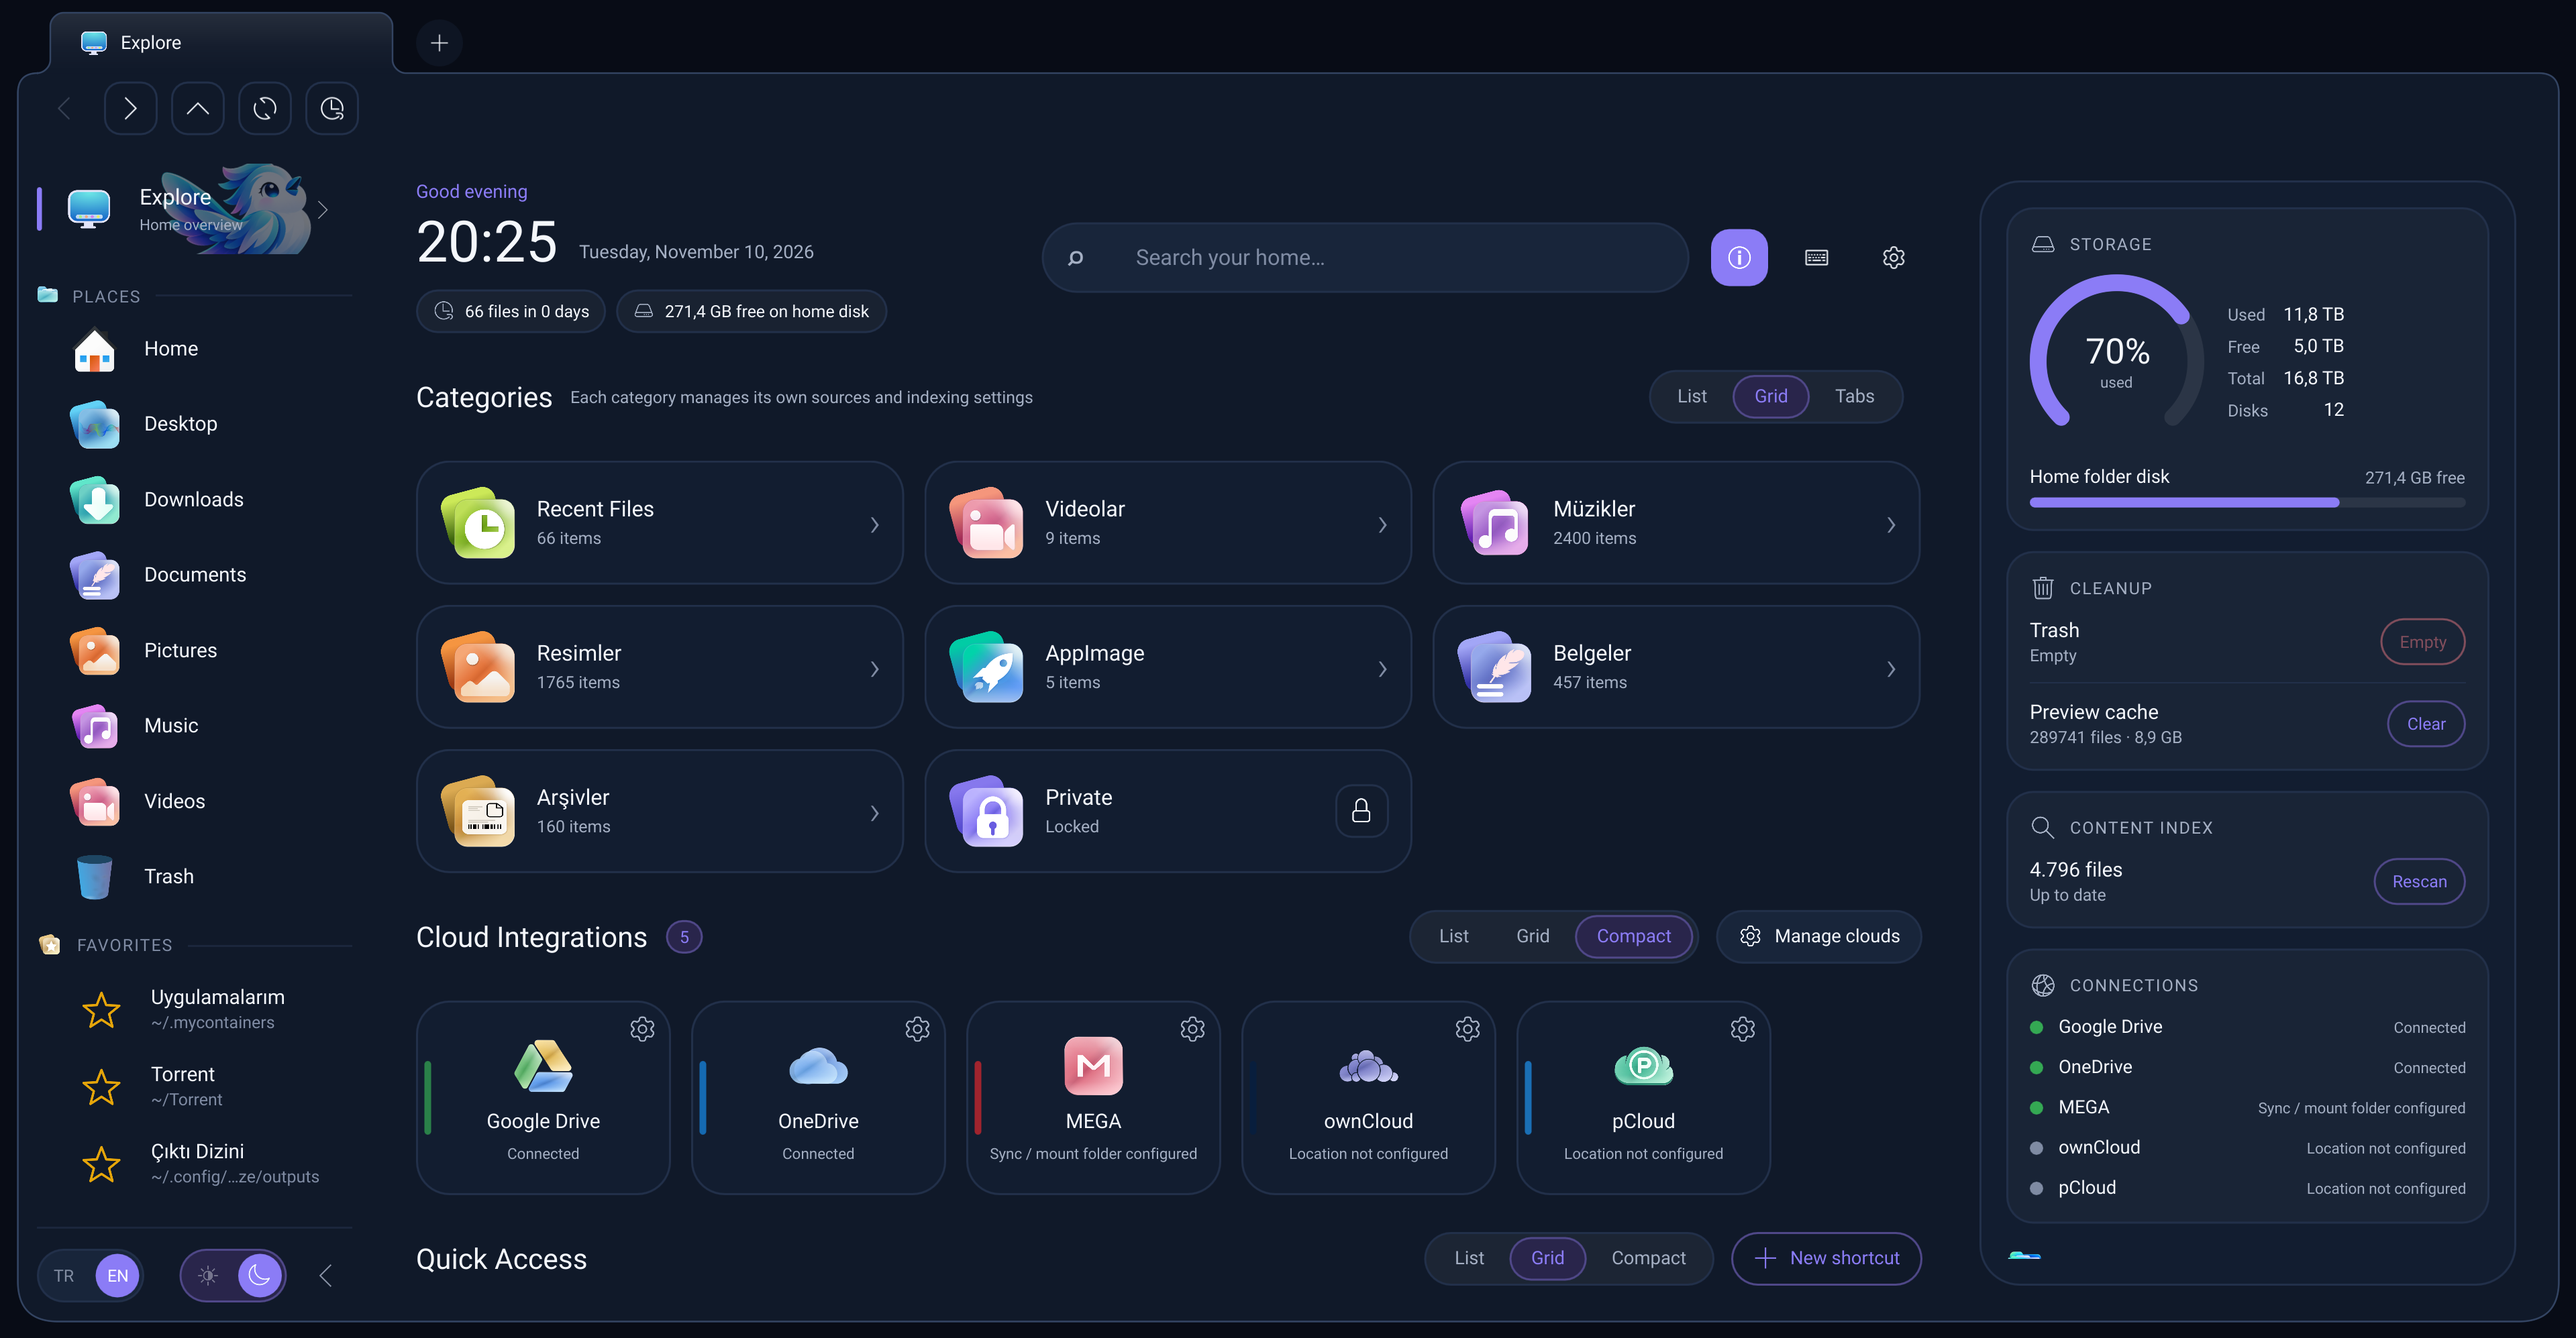
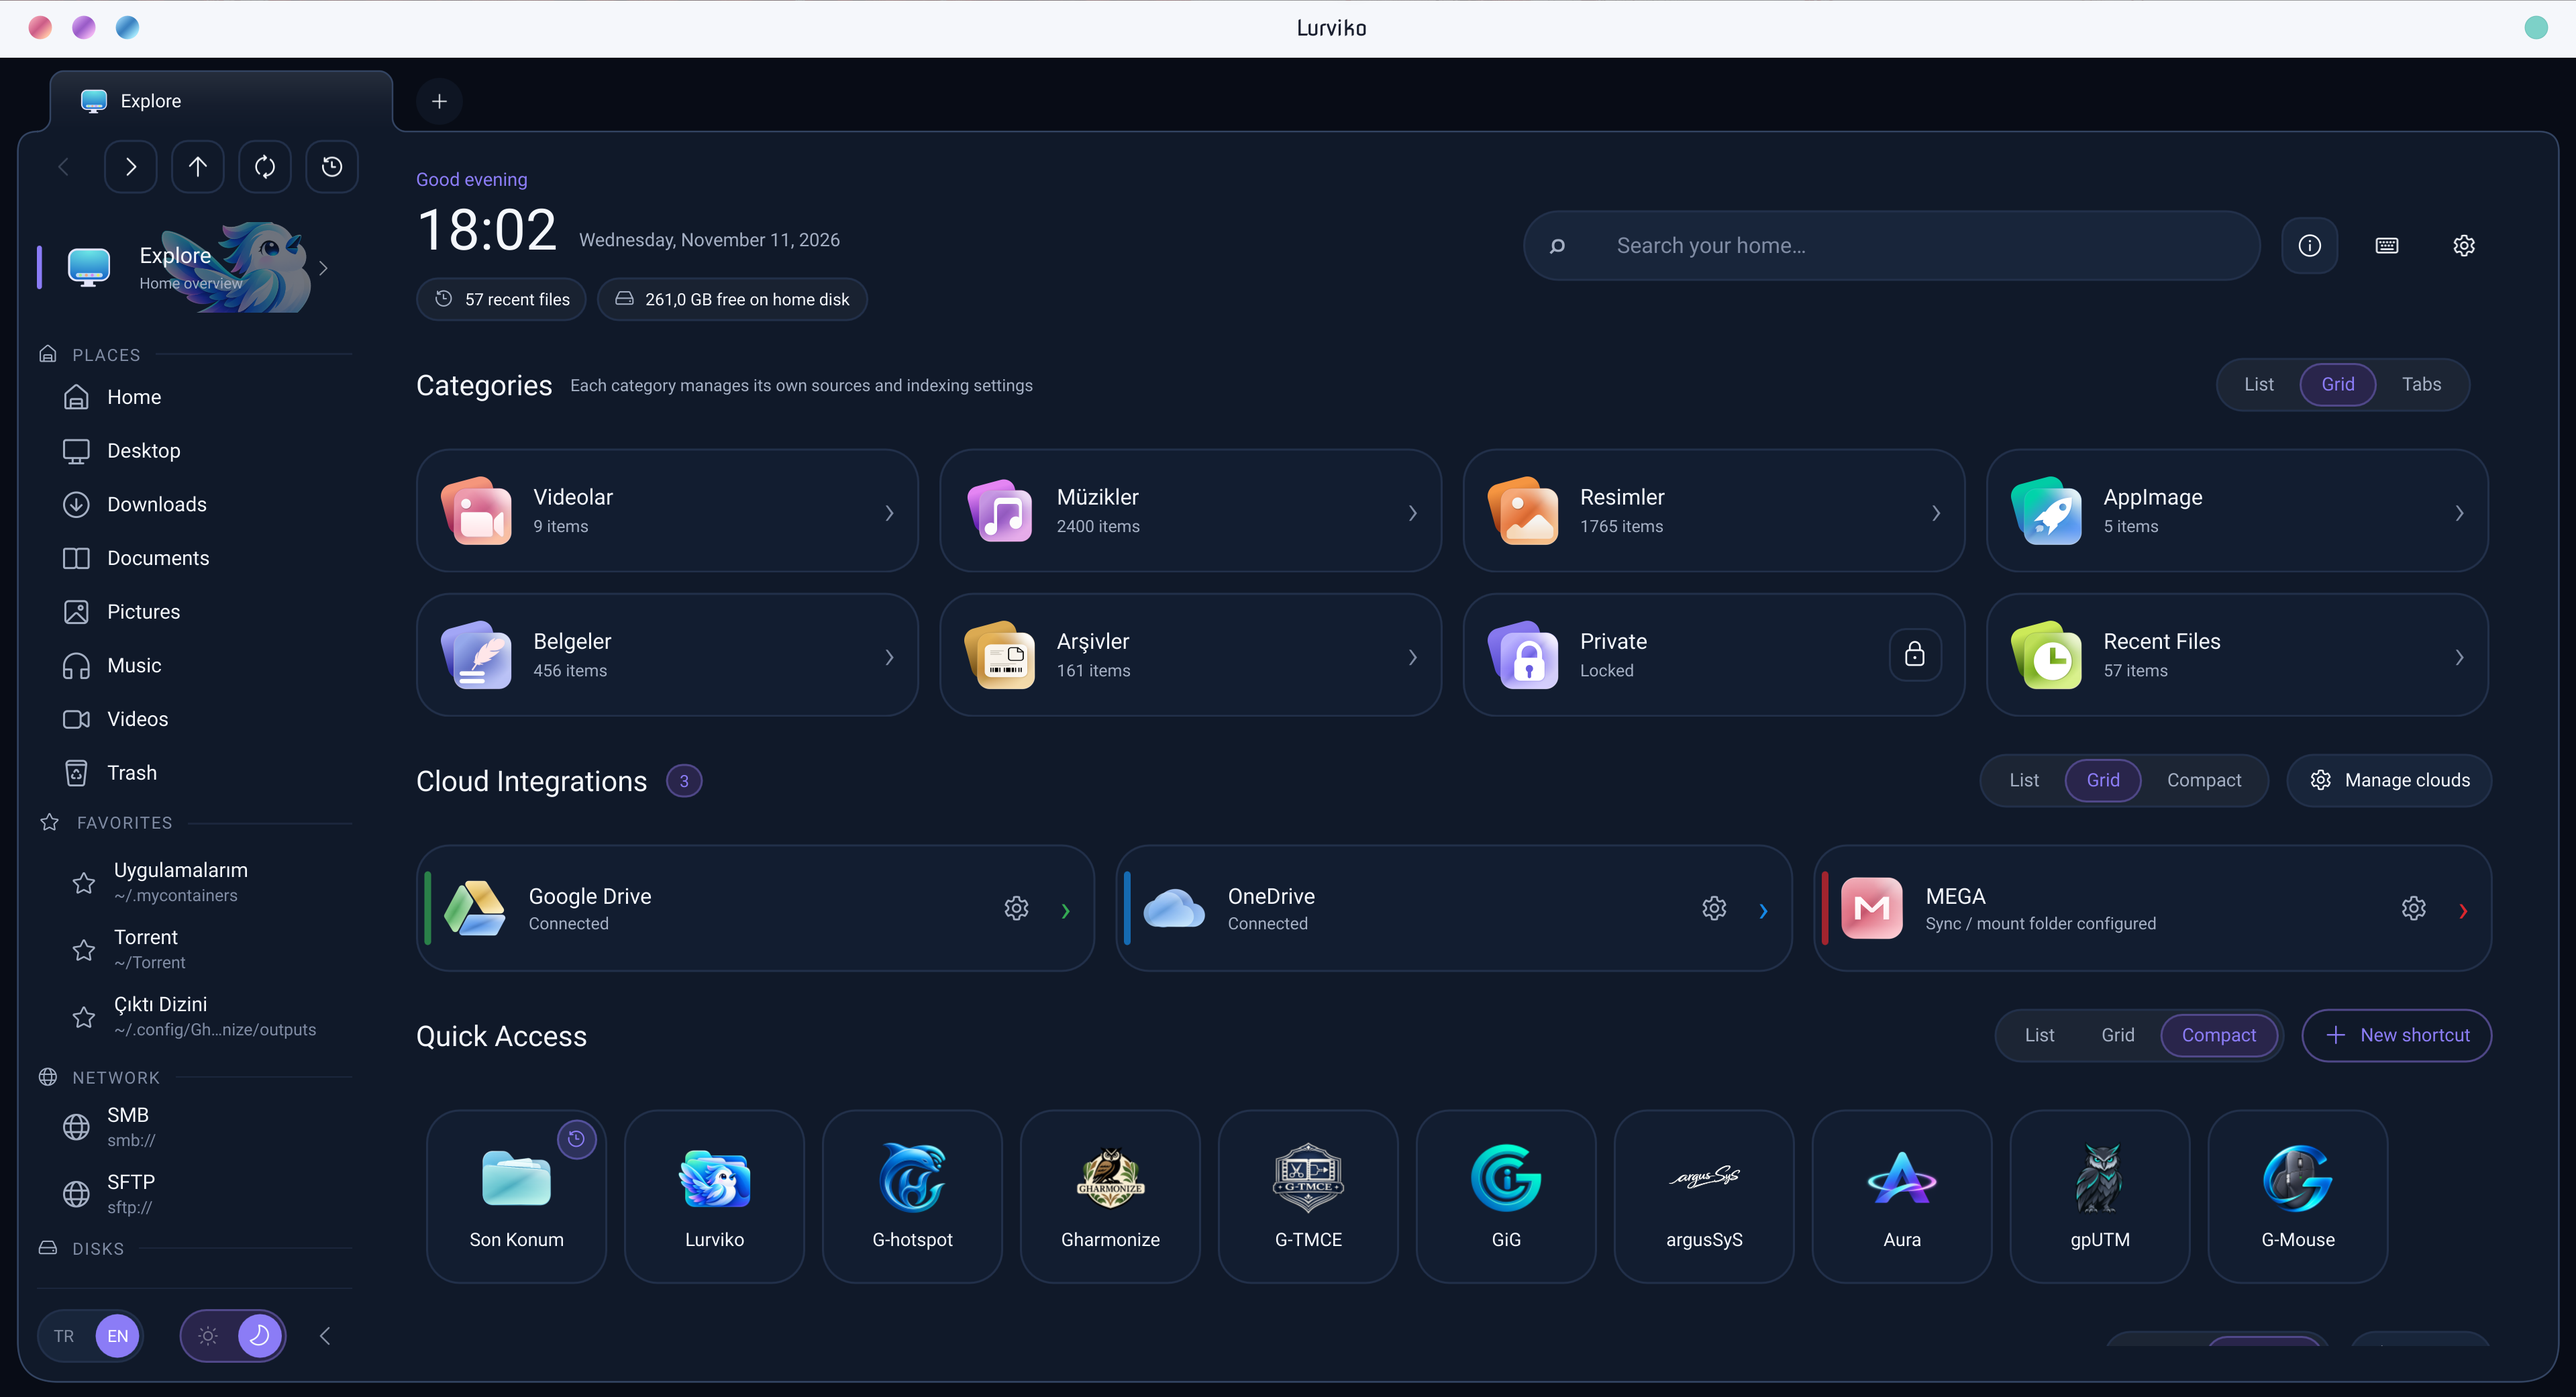
Update AUR to 1.6.1 and refresh screenshots

diff --git a/tests/test-packaging-source-contract.py b/tests/test-packaging-source-contract.py
@@ -17,7 +17,9 @@ class PackagingContracts(unittest.TestCase):
         self.assertIn('LURVIKO_SOURCE_DIR="${LURVIKO_EMBED_SOURCE_DIR}"', cmake)
     def test_staging_preserves_git_and_arch_behavior(self):
         arch = (ROOT / 'packaging/aur/lurviko/PKGBUILD').read_text()
-        self.assertIn('pkgver=1.6.0', arch)
+        cmake = (ROOT / 'CMakeLists.txt').read_text()
+        version = re.search(r'project\(Lurviko VERSION ([0-9.]+)', cmake).group(1)
+        self.assertIn(f'pkgver={version}\n', arch)
         self.assertIn('pkgrel=1', arch)
         self.assertRegex(arch, r"sha256sums=\('[0-9a-f]{64}'\)")
         native = (ROOT / 'packaging/native/CPack.cmake').read_text()
